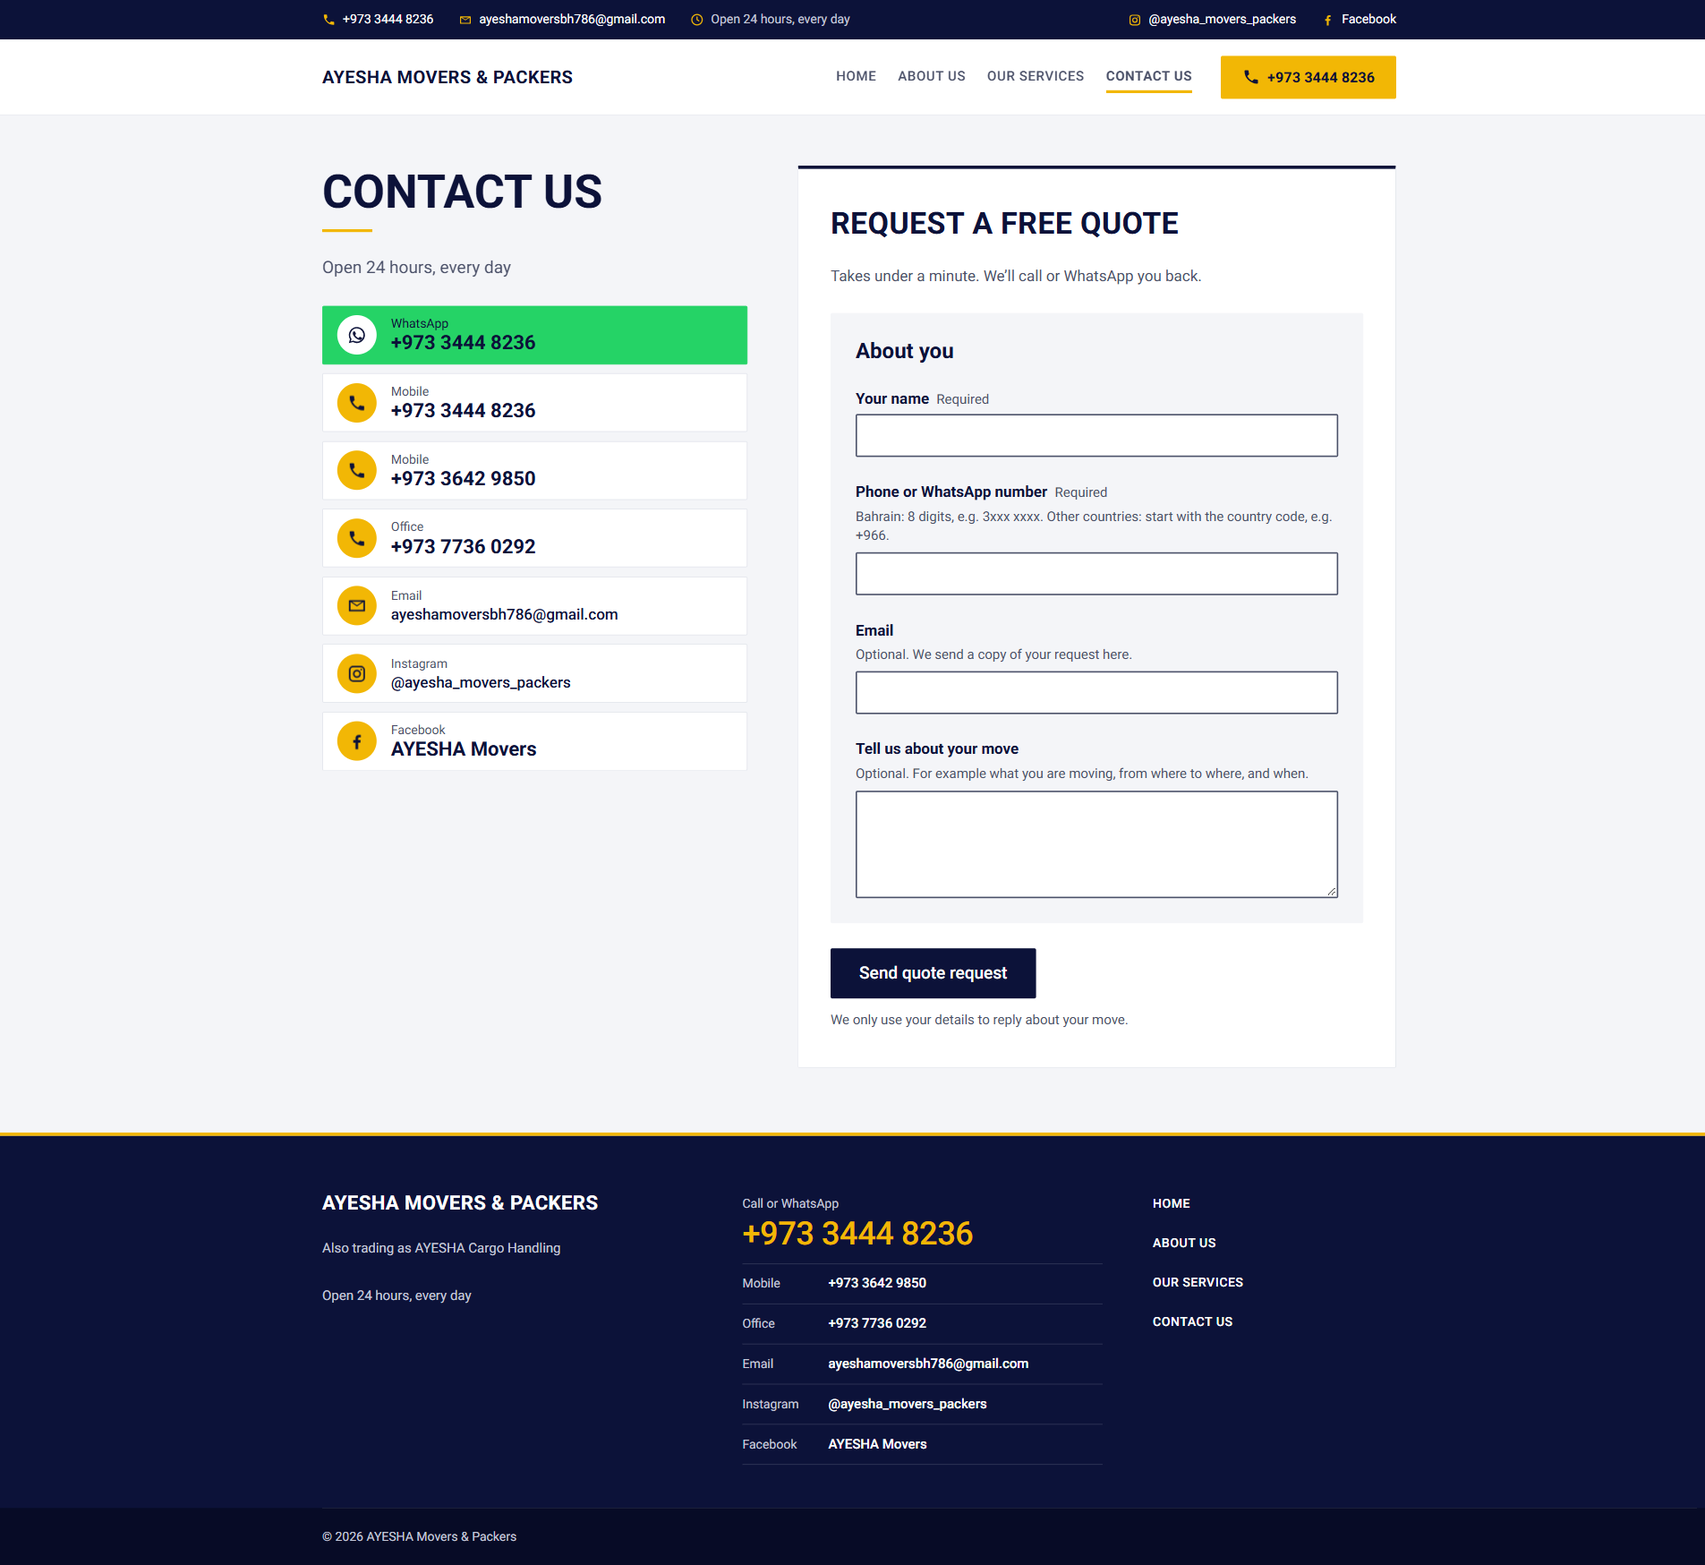
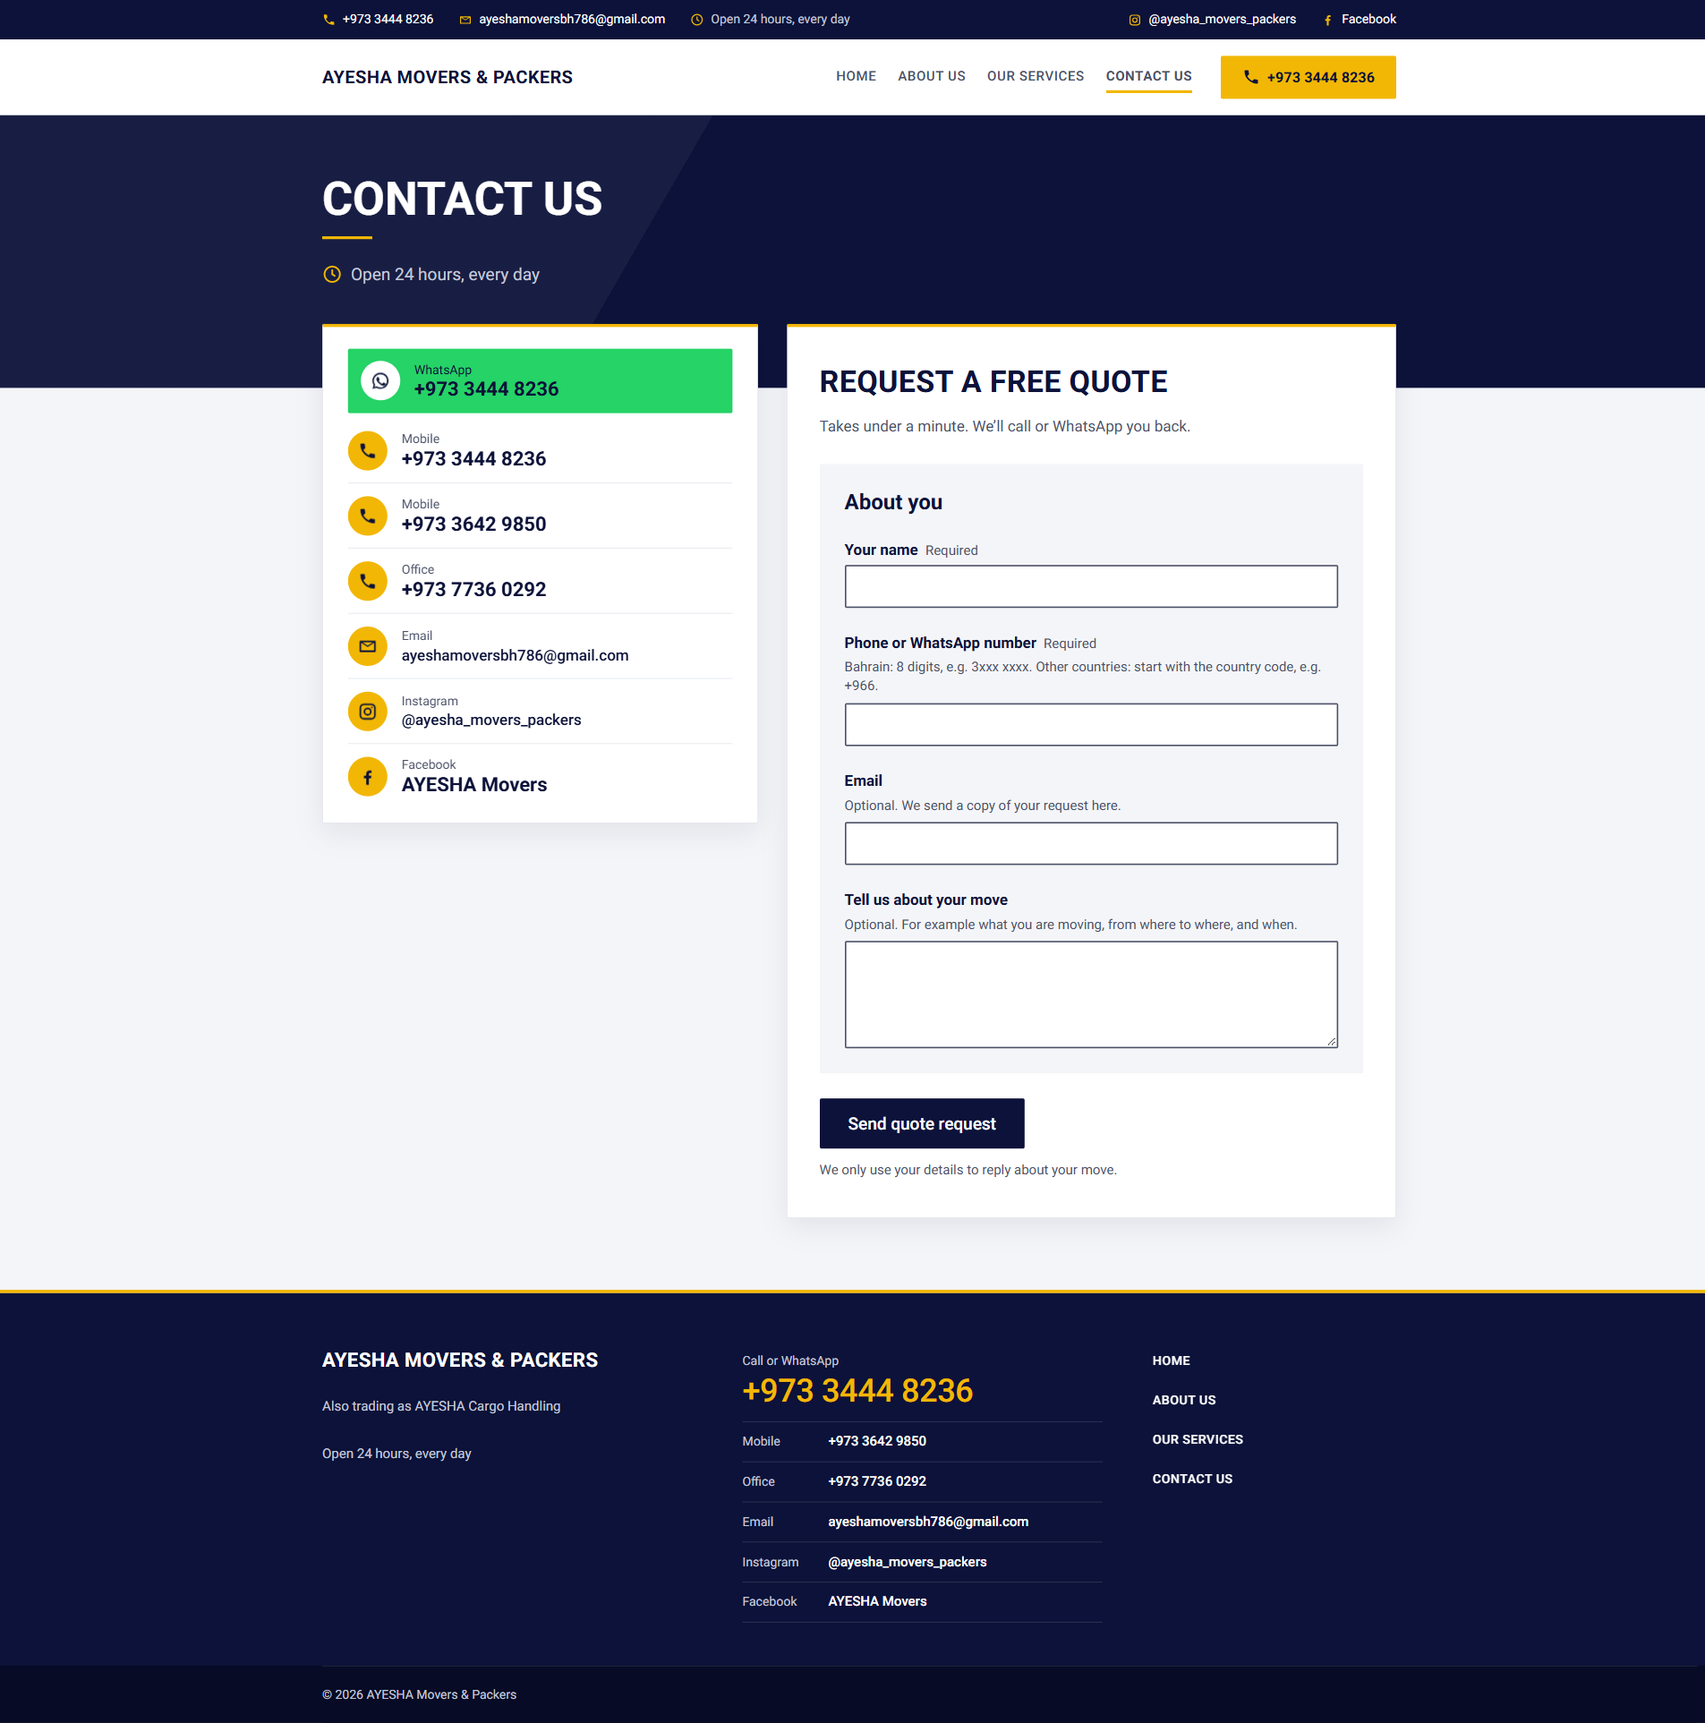
Phase 7: Contact Us redesign: navy title band, rows card and form card overlapping it
H1 and opening hours moved into a Page heading band (words unchanged); contact rows as one
white card; gold top edges and shadow on both cards; 0 invalid blocks.

diff --git a/wp-content/themes/ayesha-movers/assets/css/theme.css b/wp-content/themes/ayesha-movers/assets/css/theme.css
@@ -1620,6 +1620,95 @@ body:not(.editor-styles-wrapper) .ayesha-contact__columns:not(:has(.ayesha-conta
 	.ayesha-contact__aside { position: sticky; top: 1.75rem; align-self: flex-start; }
 }
 
+/* ---- Contact Us layout (Phase 7): a navy band with the heading and the hours, then the contact
+   rows card and the form card side by side, pulled up so they overlap the band. ---- */
+.ayesha-intro.ayesha-contact-intro.is-style-teal-panel { padding-block: 4rem 7rem !important; }
+.ayesha-contact-intro > * { margin-block: 0; }
+
+/* The opening hours under the heading, with a gold clock. */
+.ayesha-contact-intro > p {
+	display: flex;
+	align-items: center;
+	gap: 0.625rem;
+	margin-block-start: 1.5rem !important;
+	color: var(--ayesha-soft);
+}
+
+.ayesha-contact-intro > p::before {
+	content: "";
+	flex: none;
+	width: 1.375rem;
+	height: 1.375rem;
+	background: var(--ayesha-gold);
+	-webkit-mask: var(--ayesha-icon-clock) center / contain no-repeat;
+	mask: var(--ayesha-icon-clock) center / contain no-repeat;
+}
+
+.ayesha-contact.ayesha-section {
+	/* flow-root: the cards' negative top margin pulls the cards up, not the whole grey section. */
+	display: flow-root;
+	padding-block: 0 5rem !important;
+}
+
+/* Both cards: a gold top edge (a navy one would vanish against the band they overlap). */
+.ayesha-contact .ayesha-contact__aside,
+.ayesha-contact .ayesha-contact__form { border-top-color: var(--ayesha-gold); box-shadow: 0 10px 30px rgb(12 18 57 / 0.08); }
+
+.wp-block-columns.ayesha-contact__columns {
+	position: relative;
+	z-index: 1;
+	margin-block-start: -4.5rem !important;
+	gap: 1.5rem 2rem !important;
+}
+
+/* The rows card: white, navy top edge like the form card, rows divided by thin lines. */
+.ayesha-contact__aside {
+	box-sizing: border-box;
+	align-self: flex-start;
+	padding: 0.75rem 1.25rem;
+	background: #fff;
+	border: 1px solid var(--ayesha-line);
+	border-top: 4px solid var(--ayesha-navy);
+	border-radius: 2px;
+}
+
+@media (min-width: 600px) { .ayesha-contact__aside { padding: 1rem 1.75rem; } }
+
+.ayesha-contact__aside .ayesha-contact__rows { gap: 0; margin-block-start: 0 !important; }
+
+.ayesha-contact__aside .ayesha-contact__row {
+	padding: 0.875rem 0;
+	border: 0;
+	border-bottom: 1px solid var(--ayesha-line);
+	border-radius: 0;
+	background: transparent;
+}
+
+.ayesha-contact__aside .ayesha-contact__row:last-child { border-bottom: 0; }
+.ayesha-contact__aside .ayesha-contact__row::before { left: 0.6875rem; }
+
+/* WhatsApp stays the green, rounded first row. */
+.ayesha-contact__aside .ayesha-contact__row--whatsapp {
+	margin-block: 0.5rem 0.375rem;
+	padding-inline: 0.875rem;
+	border: 0;
+	border-radius: 2px;
+	background: #25D366;
+}
+
+.ayesha-contact__aside .ayesha-contact__row--whatsapp::before { left: calc(0.875rem + 0.6875rem); }
+.ayesha-contact__aside .ayesha-contact__row--whatsapp:hover { background: #3DDC77; }
+.ayesha-contact__aside .ayesha-contact__row:not(.ayesha-contact__row--whatsapp):hover { background: var(--ayesha-mist); }
+
+/* With "Show contact details" off the rows card is empty: hide it (front end only). */
+body:not(.editor-styles-wrapper) .ayesha-contact__aside:not(:has(.ayesha-contact__rows)) { display: none; }
+
+@media (max-width: 781.98px) {
+	.ayesha-intro.ayesha-contact-intro.is-style-teal-panel { padding-block: 3rem 5.5rem !important; }
+	.wp-block-columns.ayesha-contact__columns { margin-block-start: -3rem !important; }
+	.ayesha-contact__aside { align-self: stretch; }
+}
+
 /* Phones and tablets: "How a move works" and "Where we go" show their steps and stops as a
    left-aligned list, so their title and intro line up on the left as well (centred from 960px). */
 @media (max-width: 959.98px) {

diff --git a/docs/content/contact.html b/docs/content/contact.html
@@ -1,15 +1,17 @@
-<!-- wp:group {"tagName":"section","metadata":{"name":"Contact"},"align":"full","className":"ayesha-section ayesha-intro ayesha-contact","style":{"spacing":{"padding":{"top":"var:preset|spacing|50","bottom":"var:preset|spacing|60"}}},"layout":{"type":"constrained"}} -->
-<section class="wp-block-group alignfull ayesha-section ayesha-intro ayesha-contact" style="padding-top:var(--wp--preset--spacing--50);padding-bottom:var(--wp--preset--spacing--60)"><!-- wp:columns {"className":"ayesha-contact__columns","style":{"spacing":{"blockGap":{"top":"var:preset|spacing|50","left":"var:preset|spacing|50"}}}} -->
-<div class="wp-block-columns ayesha-contact__columns"><!-- wp:column {"width":"41.67%","className":"ayesha-contact__aside"} -->
-<div class="wp-block-column ayesha-contact__aside" style="flex-basis:41.67%"><!-- wp:heading {"level":1} -->
+<!-- wp:group {"tagName":"section","metadata":{"name":"Page heading"},"align":"full","className":"is-style-teal-panel ayesha-section ayesha-intro ayesha-contact-intro","layout":{"type":"constrained"}} -->
+<section class="wp-block-group alignfull is-style-teal-panel ayesha-section ayesha-intro ayesha-contact-intro"><!-- wp:heading {"level":1} -->
 <h1 class="wp-block-heading">Contact us</h1>
 <!-- /wp:heading -->
 
 <!-- wp:paragraph {"metadata":{"bindings":{"content":{"source":"ayesha/business","args":{"key":"hours"}}},"name":"Opening hours"},"className":"ayesha-if-contact-details","fontSize":"lead"} -->
 <p class="ayesha-if-contact-details has-lead-font-size">Open 24 hours, every day</p>
-<!-- /wp:paragraph -->
+<!-- /wp:paragraph --></section>
+<!-- /wp:group -->
 
-<!-- wp:group {"metadata":{"name":"Contact rows (shown when Business Info \u003e Show contact details is on)"},"className":"ayesha-contact__rows ayesha-if-contact-details","layout":{"type":"default"}} -->
+<!-- wp:group {"tagName":"section","metadata":{"name":"Contact"},"align":"full","className":"ayesha-section ayesha-contact","style":{"spacing":{"padding":{"top":"var:preset|spacing|50","bottom":"var:preset|spacing|60"}}},"layout":{"type":"constrained"}} -->
+<section class="wp-block-group alignfull ayesha-section ayesha-contact" style="padding-top:var(--wp--preset--spacing--50);padding-bottom:var(--wp--preset--spacing--60)"><!-- wp:columns {"className":"ayesha-contact__columns","style":{"spacing":{"blockGap":{"top":"var:preset|spacing|50","left":"var:preset|spacing|50"}}}} -->
+<div class="wp-block-columns ayesha-contact__columns"><!-- wp:column {"width":"41.67%","className":"ayesha-contact__aside"} -->
+<div class="wp-block-column ayesha-contact__aside" style="flex-basis:41.67%"><!-- wp:group {"metadata":{"name":"Contact rows (shown when Business Info \u003e Show contact details is on)"},"className":"ayesha-contact__rows ayesha-if-contact-details","layout":{"type":"default"}} -->
 <div class="wp-block-group ayesha-contact__rows ayesha-if-contact-details"><!-- wp:group {"metadata":{"name":"WhatsApp"},"className":"ayesha-contact__row ayesha-contact__row\u002d\u002dwhatsapp","style":{"spacing":{"blockGap":"0"}},"layout":{"type":"default"}} -->
 <div class="wp-block-group ayesha-contact__row ayesha-contact__row--whatsapp"><!-- wp:paragraph {"className":"ayesha-contact__label"} -->
 <p class="ayesha-contact__label">WhatsApp</p>

diff --git a/wp-content/themes/ayesha-movers/patterns/contact-page.php b/wp-content/themes/ayesha-movers/patterns/contact-page.php
@@ -4,7 +4,7 @@
  * Slug: ayesha-movers/contact-page
  * Categories: ayesha-movers
  * Keywords: contact, phone, whatsapp, email, quote, form
- * Description: The Contact Us page: the page heading (H1), the opening hours, a row for each way to reach the team (all from Settings → Business Info) and the quote request form under the heading "Request a detailed quote" (anchor "quote", which the Home page links to). On computers the contact rows stay on screen while the form scrolls.
+ * Description: The Contact Us page: a navy band with the page heading (H1) and the opening hours, then a row for each way to reach the team (all from Settings → Business Info) and the quote request form under the heading "Request a free quote" (anchor "quote", which the Home page links to). On computers the contact rows stay on screen while the form scrolls.
  *
  * @package AyeshaMovers
  */
@@ -42,18 +42,20 @@ $ayesha_rows = array(
 	$ayesha_row( 'Facebook', 'Facebook', 'facebook_link', '<a href="https://www.facebook.com/ayeshamoversbahrain/" target="_blank" rel="noopener" aria-label="AYESHA Movers on Facebook">AYESHA Movers</a>', 'AYESHA Movers' ),
 );
 ?>
-<!-- wp:group {"metadata":{"name":"Contact"},"tagName":"section","align":"full","className":"ayesha-section ayesha-intro ayesha-contact","style":{"spacing":{"padding":{"top":"var:preset|spacing|50","bottom":"var:preset|spacing|60"}}},"layout":{"type":"constrained"}} -->
-<section class="wp-block-group alignfull ayesha-section ayesha-intro ayesha-contact" style="padding-top:var(--wp--preset--spacing--50);padding-bottom:var(--wp--preset--spacing--60)"><!-- wp:columns {"className":"ayesha-contact__columns","style":{"spacing":{"blockGap":{"top":"var:preset|spacing|50","left":"var:preset|spacing|50"}}}} -->
-<div class="wp-block-columns ayesha-contact__columns"><!-- wp:column {"width":"41.67%","className":"ayesha-contact__aside"} -->
-<div class="wp-block-column ayesha-contact__aside" style="flex-basis:41.67%"><!-- wp:heading {"level":1} -->
+<!-- wp:group {"metadata":{"name":"Page heading"},"tagName":"section","align":"full","className":"is-style-teal-panel ayesha-section ayesha-intro ayesha-contact-intro","layout":{"type":"constrained"}} -->
+<section class="wp-block-group alignfull is-style-teal-panel ayesha-section ayesha-intro ayesha-contact-intro"><!-- wp:heading {"level":1} -->
 <h1 class="wp-block-heading">Contact us</h1>
 <!-- /wp:heading -->
 
 <!-- wp:paragraph {"className":"ayesha-if-contact-details","fontSize":"lead","metadata":{"bindings":{"content":{"source":"ayesha/business","args":{"key":"hours"}}},"name":"Opening hours"}} -->
 <p class="ayesha-if-contact-details has-lead-font-size">Open 24 hours, every day</p>
-<!-- /wp:paragraph -->
+<!-- /wp:paragraph --></section>
+<!-- /wp:group -->
 
-<!-- wp:group {"metadata":{"name":"Contact rows (shown when Business Info > Show contact details is on)"},"className":"ayesha-contact__rows ayesha-if-contact-details","layout":{"type":"default"}} -->
+<!-- wp:group {"metadata":{"name":"Contact"},"tagName":"section","align":"full","className":"ayesha-section ayesha-contact","style":{"spacing":{"padding":{"top":"var:preset|spacing|50","bottom":"var:preset|spacing|60"}}},"layout":{"type":"constrained"}} -->
+<section class="wp-block-group alignfull ayesha-section ayesha-contact" style="padding-top:var(--wp--preset--spacing--50);padding-bottom:var(--wp--preset--spacing--60)"><!-- wp:columns {"className":"ayesha-contact__columns","style":{"spacing":{"blockGap":{"top":"var:preset|spacing|50","left":"var:preset|spacing|50"}}}} -->
+<div class="wp-block-columns ayesha-contact__columns"><!-- wp:column {"width":"41.67%","className":"ayesha-contact__aside"} -->
+<div class="wp-block-column ayesha-contact__aside" style="flex-basis:41.67%"><!-- wp:group {"metadata":{"name":"Contact rows (shown when Business Info > Show contact details is on)"},"className":"ayesha-contact__rows ayesha-if-contact-details","layout":{"type":"default"}} -->
 <div class="wp-block-group ayesha-contact__rows ayesha-if-contact-details"><?php echo implode( "\n\n", $ayesha_rows ); // phpcs:ignore WordPress.Security.EscapeOutput.OutputNotEscaped -- block markup built above. ?></div>
 <!-- /wp:group --></div>
 <!-- /wp:column -->

diff --git a/PROGRESS.md b/PROGRESS.md
@@ -72,6 +72,7 @@ In the Media Library, the tags are prefixed to the title (`[DO NOT USE]`, `[PLAC
   - **Seventh round (2026-10-06, user screenshot of Home on a wide screen):** two Home blocks left the 1200px content column on screens wider than 1280px: the "What we do" card grid (full screen width) and the "How a move works" steps (started at the column but ran to the right edge). Both CSS rules fixed; every block on all 4 pages now stays within the header's column at 375, 768, 1280, 1440, 1920 and 2560px.
   - **Eighth round (2026-10-06, "follow site-home-1920.png" = Services cards like Home):** the six Our Services cards now use Home's card look: white on light grey, icon in a gold circle, centred title and text, the "What's included" list as a centred block with left-aligned ticks, the WhatsApp button at the foot of the card (lined up across each row), hover lift; 3 across from 1100px, 2 from 640px, 1 on phones. CSS only; no content or anchors changed.
   - **Ninth round (2026-10-06, About Us check):** "Who runs it" + "How we work" made one centred column (on computers the short "Who runs it" left a large empty half beside "How we work"); the four commitments are now cards like Home's (icon in a gold circle, centred, hover lift; 4 across from 1100px, 2 from 640px, 1 on phones). Phones and tablets: "How a move works" and "Where we go" (Home and About) now put their title and intro on the left, in line with their left-aligned list (centred from 960px). CSS only.
+  - **Tenth round (2026-10-06, "make Contact Us beautiful"):** Contact Us now opens with a navy title band like the other pages ("Contact us" with the gold bar and the opening hours with a gold clock); the contact rows became one white card (rows divided by thin lines, WhatsApp the green first row) beside the form card; both cards have a gold top edge and a soft shadow and overlap the band by 72px (48px on phones). The H1 and the hours block moved into a new "Page heading" section (words unchanged, the hours keep the "Show contact details" rule); the rest is CSS.
 - **Next step:** the user reviews `phase-7-design`; after approval: remove the junctions (`rmdir`), restore the main checkout's folders, merge into `main`, push, smoke-test. Then Phase 8.
 - **Last completed:** Phase 6 (Contact Us + quote form + email), approved and merged into `main` 2026-10-03 at 497997f (fast-forward); smoke test passed (see Test results › Phase 6 › Post-merge smoke test).
 - **Test data kept on the local site (user decision 2026-10-03):** 19 test enquiries AYM-261003-001 … 019 and AYM-261006-001 (015–019 and 261006-001 sent in Phase 7: "Phase7 Test", "Phase7b Test", "Short NoMsg Test", "Short Msg <b>Test</b>", "Full Form Test") and WP Mail Logging rows 4–28 (row 27 went to the made-up address shorttest@example.com; locally nothing is delivered).
@@ -597,4 +598,15 @@ Screenshots: `site-about-{375,768,1280,1920}.png`, `site-home-{375,768,1280,1920
 | H1 | Commitment cards per row | 1 / 2 / 4 / 4 | 375: 4 rows of 1, 768: 2 rows of 2, 1280 and 1920: 1 row of 4 | Pass |
 | H2 | Inside the header's column | Nothing outside | About and Home at 375, 768, 1280, 1920: nothing outside | Pass |
 | H3 | Horizontal scroll; axe | 0 px; 0 serious/critical | 0 px; only the known moderate `region` (About and Home, 4 widths) | Pass |
+
+#### Phase 7, tenth round (Contact Us redesign; run 2026-10-06)
+Screenshots: `site-contact-{375,768,1280,1920}.png`, `contact-first-screen-{375,1920}.png`, `editor-contact.png`.
+
+| # | Test | Expected | Result | Pass/Fail |
+|---|---|---|---|---|
+| I1 | Cards overlap the band | Yes | 1280/1920: cards start 72 px above the band's bottom; 375/768: 48 px. (First attempt didn't overlap: the cards' negative margin collapsed through the grey section; fixed with `display: flow-root`) | Pass |
+| I2 | Inside the header's column | Same edges | Heading, rows card and form card inside the column at all 4 widths (1920: rows 352–839, form 871–1552; column 352–1552) | Pass |
+| I3 | Contact rows | All 7, links unchanged | 7 rows (WhatsApp, 2 × Mobile, Office, Email, Instagram, Facebook) | Pass |
+| I4 | Invalid blocks | 0 | Home 112, About 31, Our Services 99, Contact 32 blocks: 0 invalid; theme patterns 0 invalid | Pass |
+| I5 | Horizontal scroll; axe | 0 px; 0 serious/critical | 0 px at 375/768/1280/1920; only the known moderate `region` | Pass |
 

diff --git a/docs/editing-guide.md b/docs/editing-guide.md
@@ -212,7 +212,7 @@ Both pages use the template **Page with sections (heading in the page)**: the bi
 
 ## 8. The Contact Us page
 
-Open **Pages → Contact Us**. In **List View**: Contact → Columns → the left column (heading, opening hours, **Contact rows**) and the right column (**Request a free quote**, one line of text, and the **Quote request form**). On computers the left column stays on screen while the form scrolls; on phones it comes first and the form follows.
+Open **Pages → Contact Us**. In **List View**: **Page heading** (the navy band with "Contact us" and the opening hours), then **Contact** → Columns → the left column (**Contact rows**, shown as one white card) and the right column (**Request a free quote**, one line of text, and the **Quote request form**). On computers the two cards sit side by side and slightly overlap the navy band; the rows card stays on screen while the form scrolls. On phones the rows card comes first and the form follows.
 
 - **Heading and the line under "Request a free quote"**: click and type.
 - **Show or hide the hours and contact rows:** Settings → Business Info → **Show contact details on Contact Us** (on now). While it's off, visitors see only the heading and the form, but the hours and rows stay in the page and you can still edit them here (the editor always shows them).
